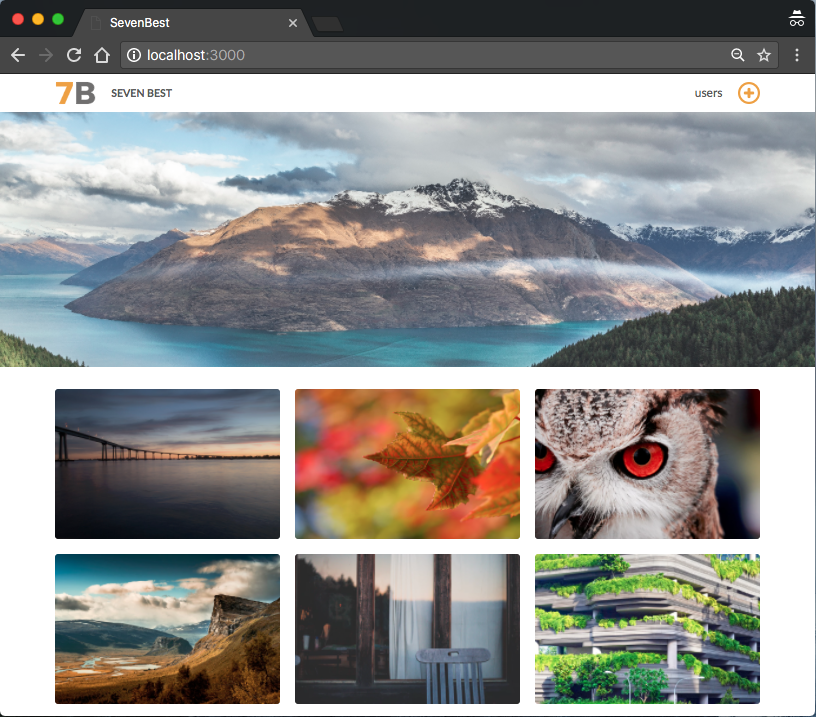
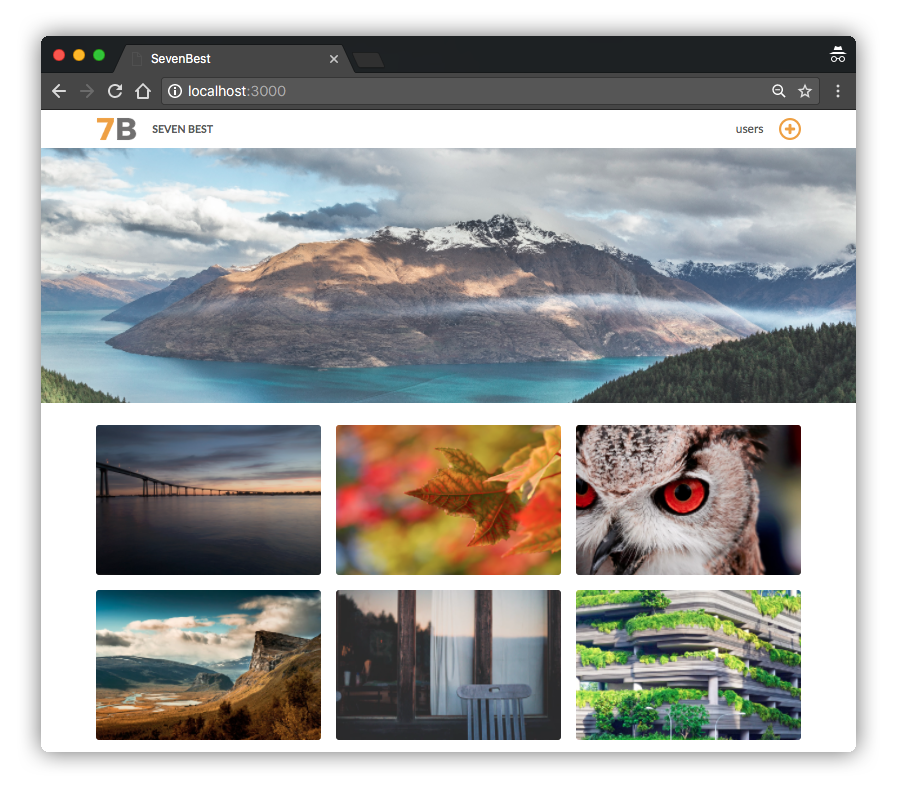
Update screenshot and add readme

diff --git a/README.md b/README.md
@@ -1,24 +1,18 @@
-# README
+# Seven Best
 
-This README would normally document whatever steps are necessary to get the
-application up and running.
+Project that was made during the hackathon of week 1 at Codaisseur Academy.
+It is an Instagram like picture website where users can upload their seven best pictures.
 
-Things you may want to cover:
+![](https://raw.githubusercontent.com/jeroenknol/seven-best/master/app/assets/images/screenshot.png)
 
-* Ruby version
+## Running Locally
 
-* System dependencies
+Make sure you have [Ruby](https://www.ruby-lang.org/en/) and [Bundler](http://bundler.io/) installed.
 
-* Configuration
-
-* Database creation
-
-* Database initialization
-
-* How to run the test suite
-
-* Services (job queues, cache servers, search engines, etc.)
-
-* Deployment instructions
-
-* ...
+```bash
+git clone git@github.com:jeroenknol/seven-best.git
+cd seven-best
+bundle install
+rails db:create db:migrate db:seed
+rails server
+```
